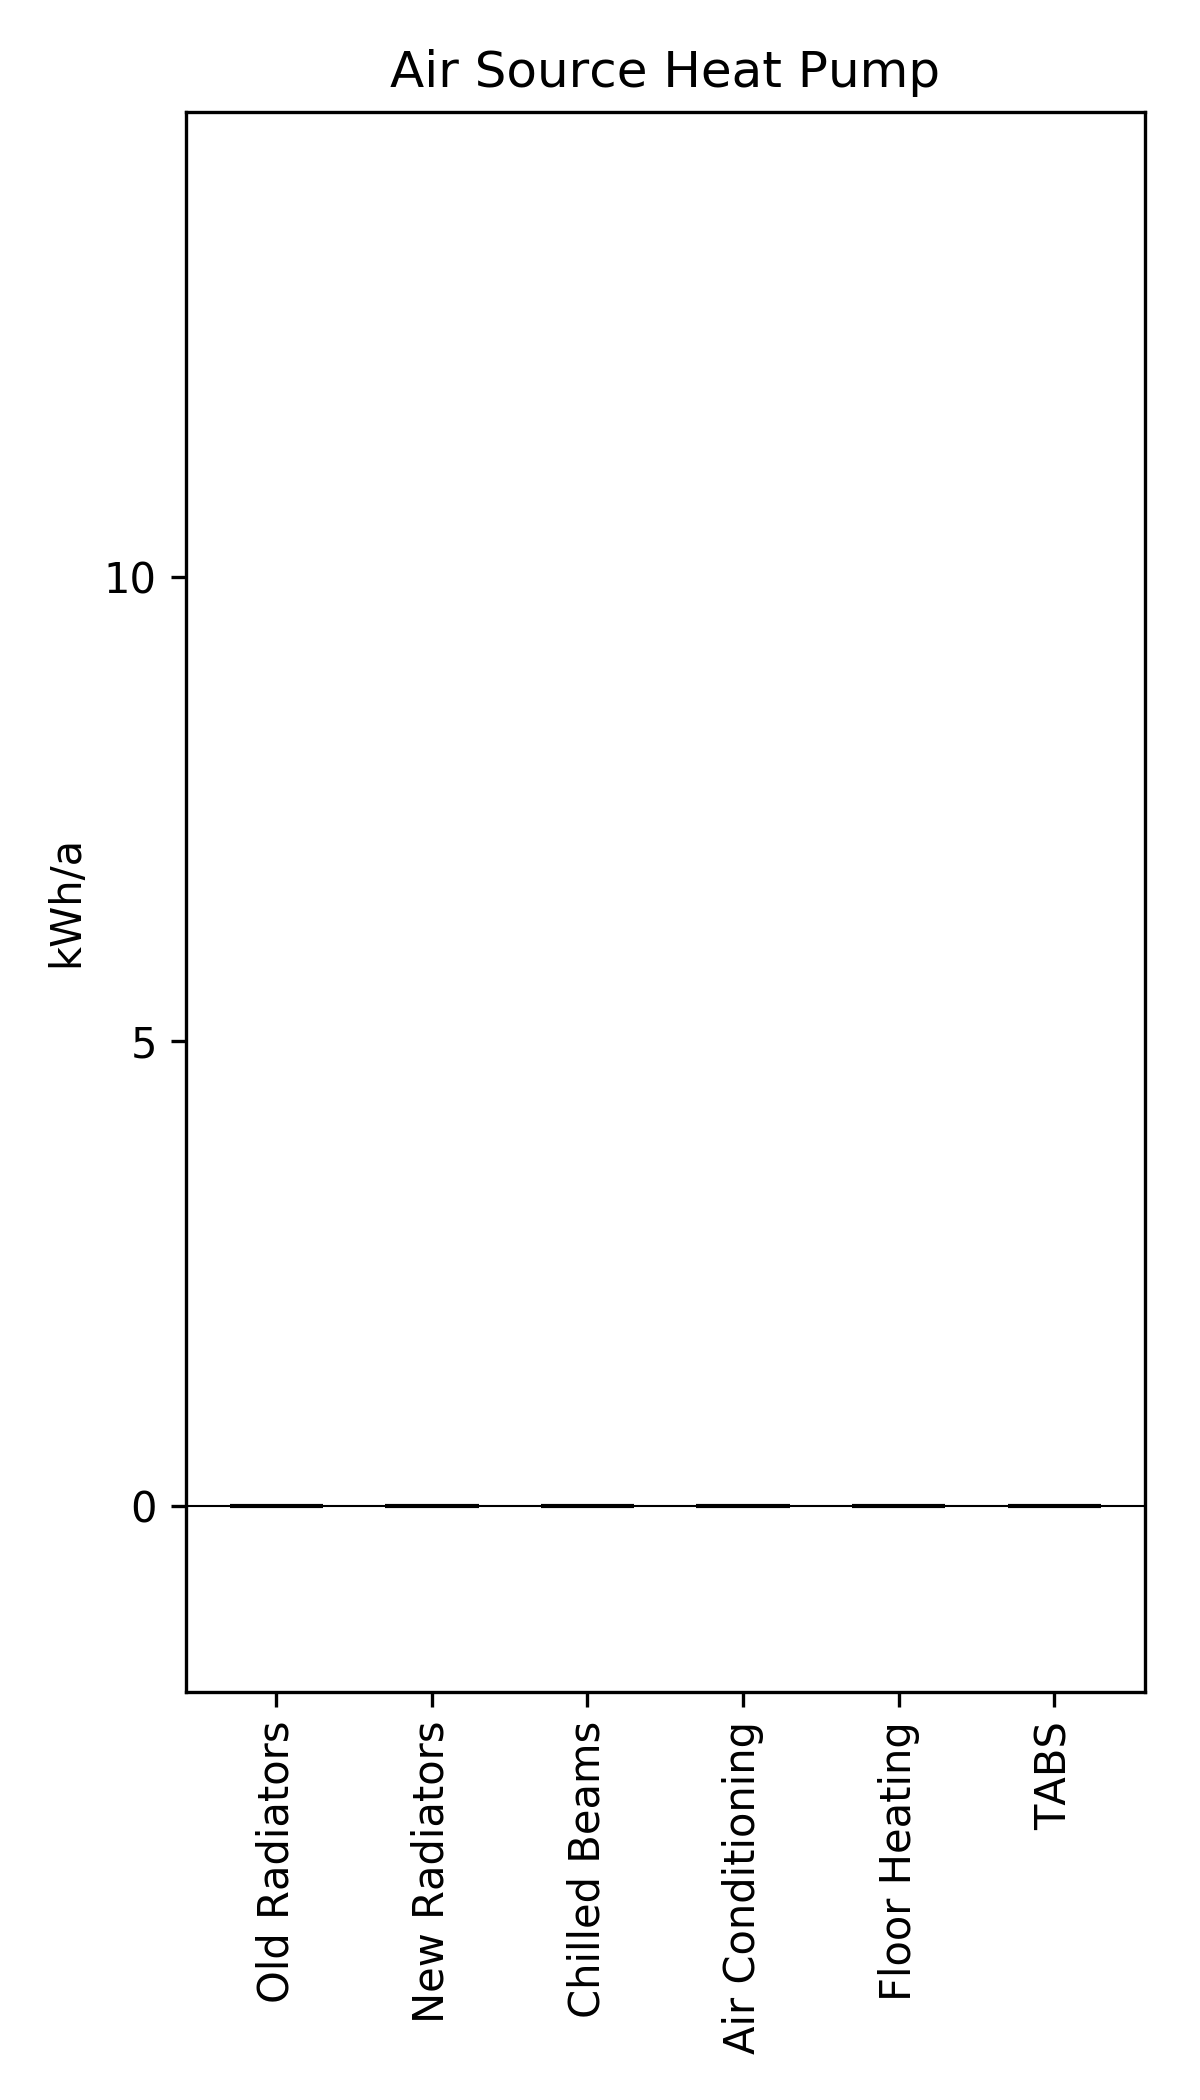
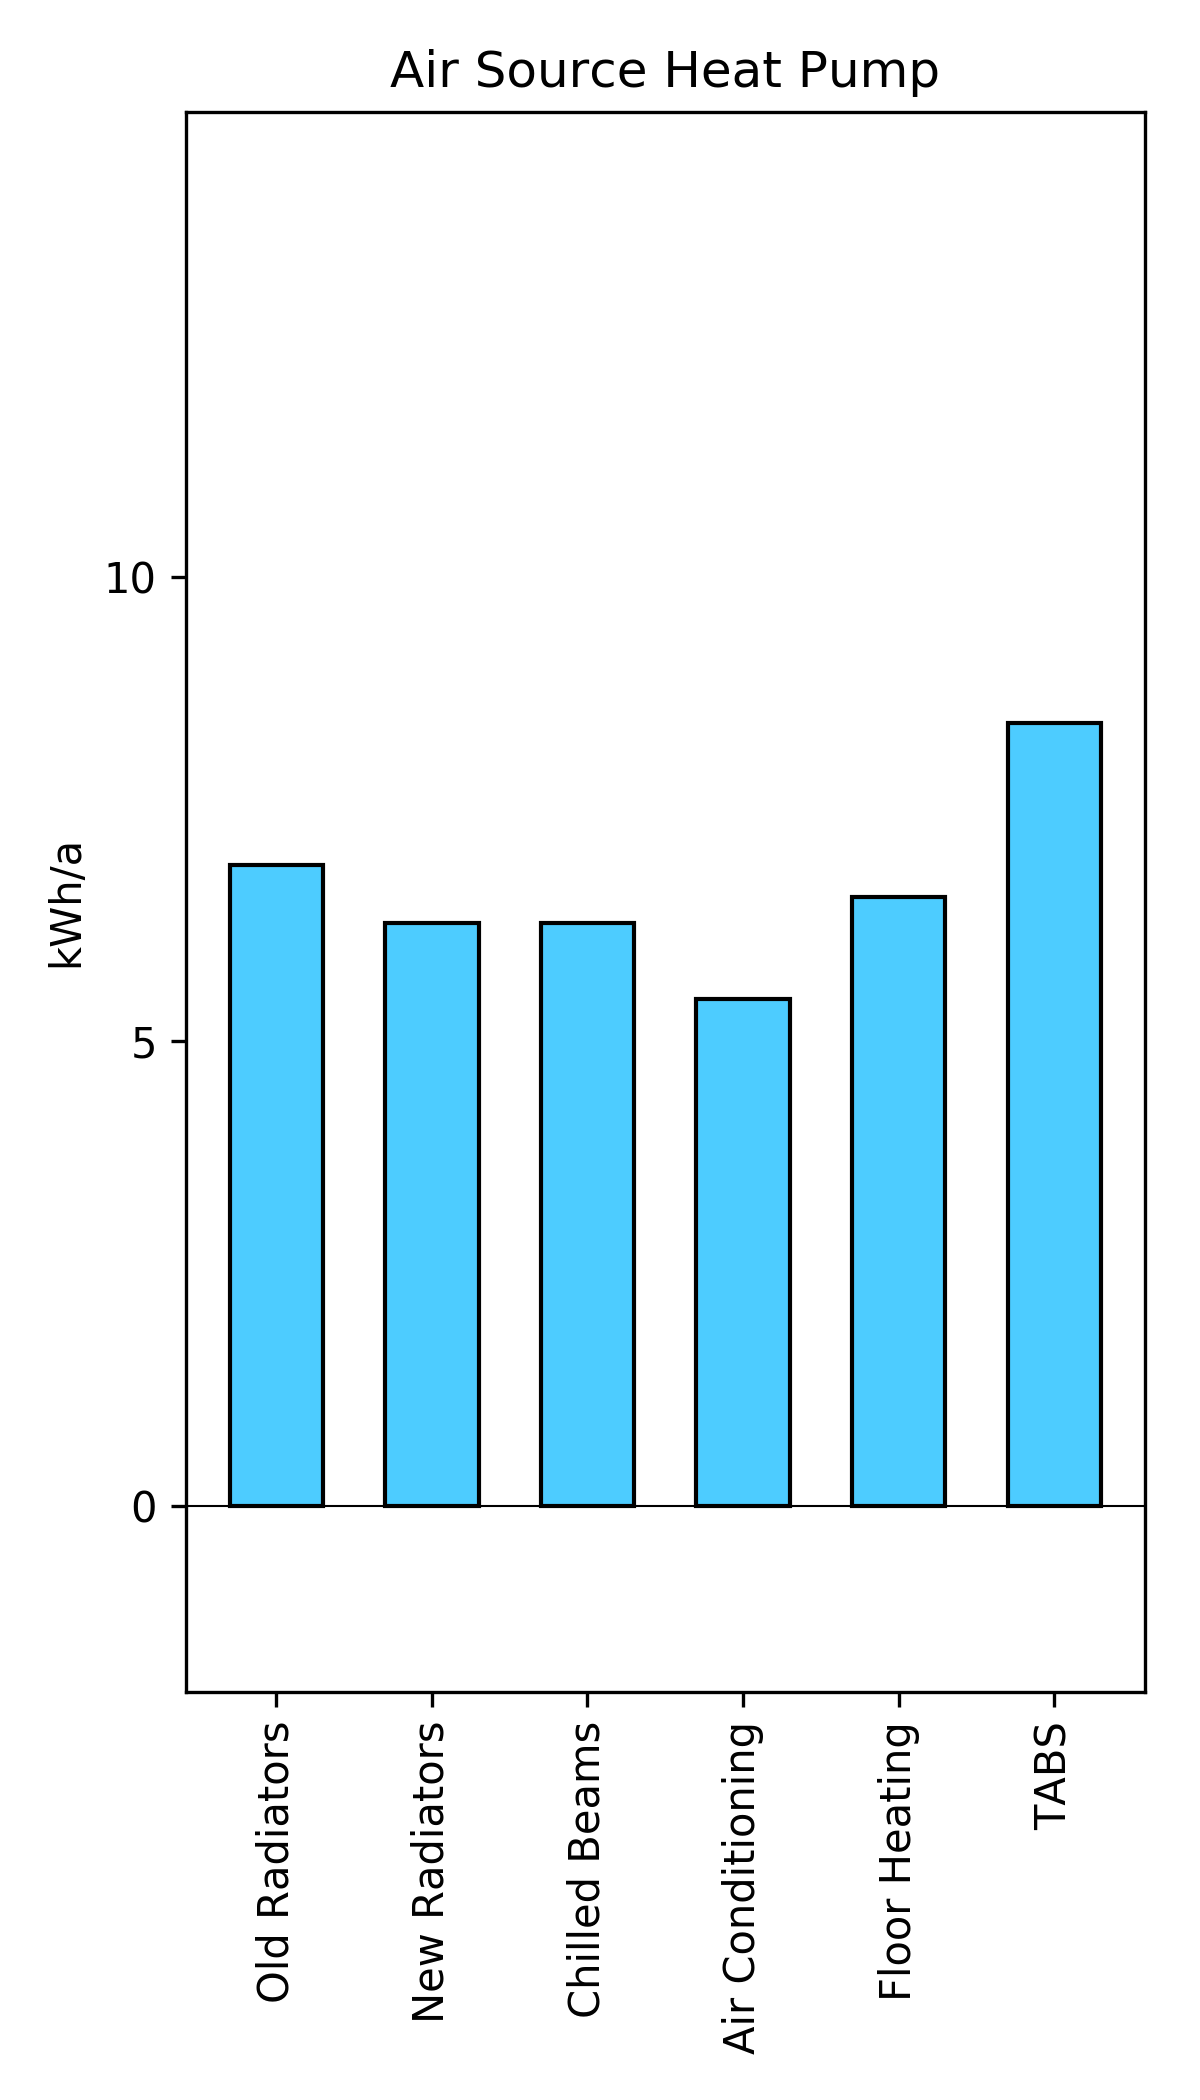
Error corrected that let ASHP produce negative values. Cooling problematic

diff --git a/5R1C_ISO_simulator/supplySystem.py b/5R1C_ISO_simulator/supplySystem.py
@@ -56,7 +56,7 @@ class SupplyBuilder:
         self.Load=Load                              #Energy Demand of the building at that time step
         self.theta_e=theta_e                        #Outdoor Air Temperature
         self.heatingSupplyTemperature = heatingSupplyTemperature  #Temperature required by the emission system
-        self.coolingSupplyTemperature = coolingSupplyTemperature,
+        self.coolingSupplyTemperature = coolingSupplyTemperature
         self.has_heating_demand = has_heating_demand
         
     name = None
@@ -110,10 +110,13 @@ class HeatPumpAir(SupplyBuilder):
 
     def calcLoads(self):
         heater = SupplyOut()
+        elCool = self.Load/(0.4*(self.coolingSupplyTemperature+273.0)/(self.theta_e-self.coolingSupplyTemperature))
         if self.has_heating_demand:                                   #Heating
             heater.electricityIn = self.Load/(0.4*(self.heatingSupplyTemperature+273.0)/(self.heatingSupplyTemperature-self.theta_e))
-        else:                                               #Cooling
-            heater.electricityIn = self.Load/(0.4*(self.coolingSupplyTemperature+273.0)/(self.theta_e-self.coolingSupplyTemperature))
+        elif elCool > self.Load*0.1:                                               #Cooling
+            heater.electricityIn = elCool
+        else:
+            heater.electricityIn = self.Load*0.1
         heater.fossilsIn = 0    
         heater.electricityOut = 0
         return heater
@@ -128,7 +131,7 @@ class HeatPumpWater(SupplyBuilder):
         if self.has_heating_demand:                                   #Heating
             heater.electricityIn = self.Load/(0.5*(self.heatingSupplyTemperature+273.0)/(self.heatingSupplyTemperature-7.0))
         else:                                               #Cooling 
-            if self.supplyTemperature > 11.9:                 #Only by pumping 
+            if self.coolingSupplyTemperature > 11.9:                 #Only by pumping 
                 heater.electricityIn = self.Load*0.1
             else:                                           #Heat Pump active
                 heater.electricityIn = self.Load/(0.5*(self.coolingSupplyTemperature+273.0)/(12.0-self.coolingSupplyTemperature))
@@ -146,7 +149,7 @@ class HeatPumpGround(SupplyBuilder):
         if self.has_heating_demand:                                   #Heating
             heater.electricityIn = self.Load/(0.45*(self.heatingSupplyTemperature+273.0)/(self.heatingSupplyTemperature-7.0))
         else:                                              #Cooling 
-            if self.supplyTemperature > 11.9:                 #Only by pumping 
+            if self.coolingSupplyTemperature > 11.9:                 #Only by pumping 
                 heater.electricityIn = self.Load*0.1
             else:                                           #Heat Pump active
                 heater.electricityIn = self.Load/(0.45*(self.coolingSupplyTemperature+273.0)/(12.0-self.coolingSupplyTemperature))

diff --git a/5R1C_ISO_simulator/emissionSystem.py b/5R1C_ISO_simulator/emissionSystem.py
@@ -29,18 +29,20 @@ class EmissionDirector:
     The director sets what Emission system is being used, and runs that set Emission system
     """
 
-    __builder = None
+#    __builder = None
+    builder = None
 
     #Sets what Emission system is used
     def setBuilder(self, builder):
-        self.__builder = builder
-
+#        self.__builder = builder
+        self.builder = builder
     # Calcs the energy load of that system. This is the main() fu
     def calcFlows(self):
 
         # Director asks the builder to produce the system body. self.__builder is an instance of the class
 
-        body = self.__builder.heatFlows()
+#        body = self.__builder.heatFlows()
+        body = self.builder.heatFlows()
 
         return body
 

diff --git a/5R1C_ISO_simulator/systemsMainSimulation.py b/5R1C_ISO_simulator/systemsMainSimulation.py
@@ -90,7 +90,7 @@ for supSys in heatPumps:
         theta_m_prev = 20
         
         
-        for hour in range(4000,4501):
+        for hour in range(8760):
             phi_int = offOcc.loc[hour,'People']*(maxIntGain+maxPeopGain)
             occupancy = offOcc.loc[hour,'People']/A_person
             theta_e = weather['drybulb_C'][hour]
